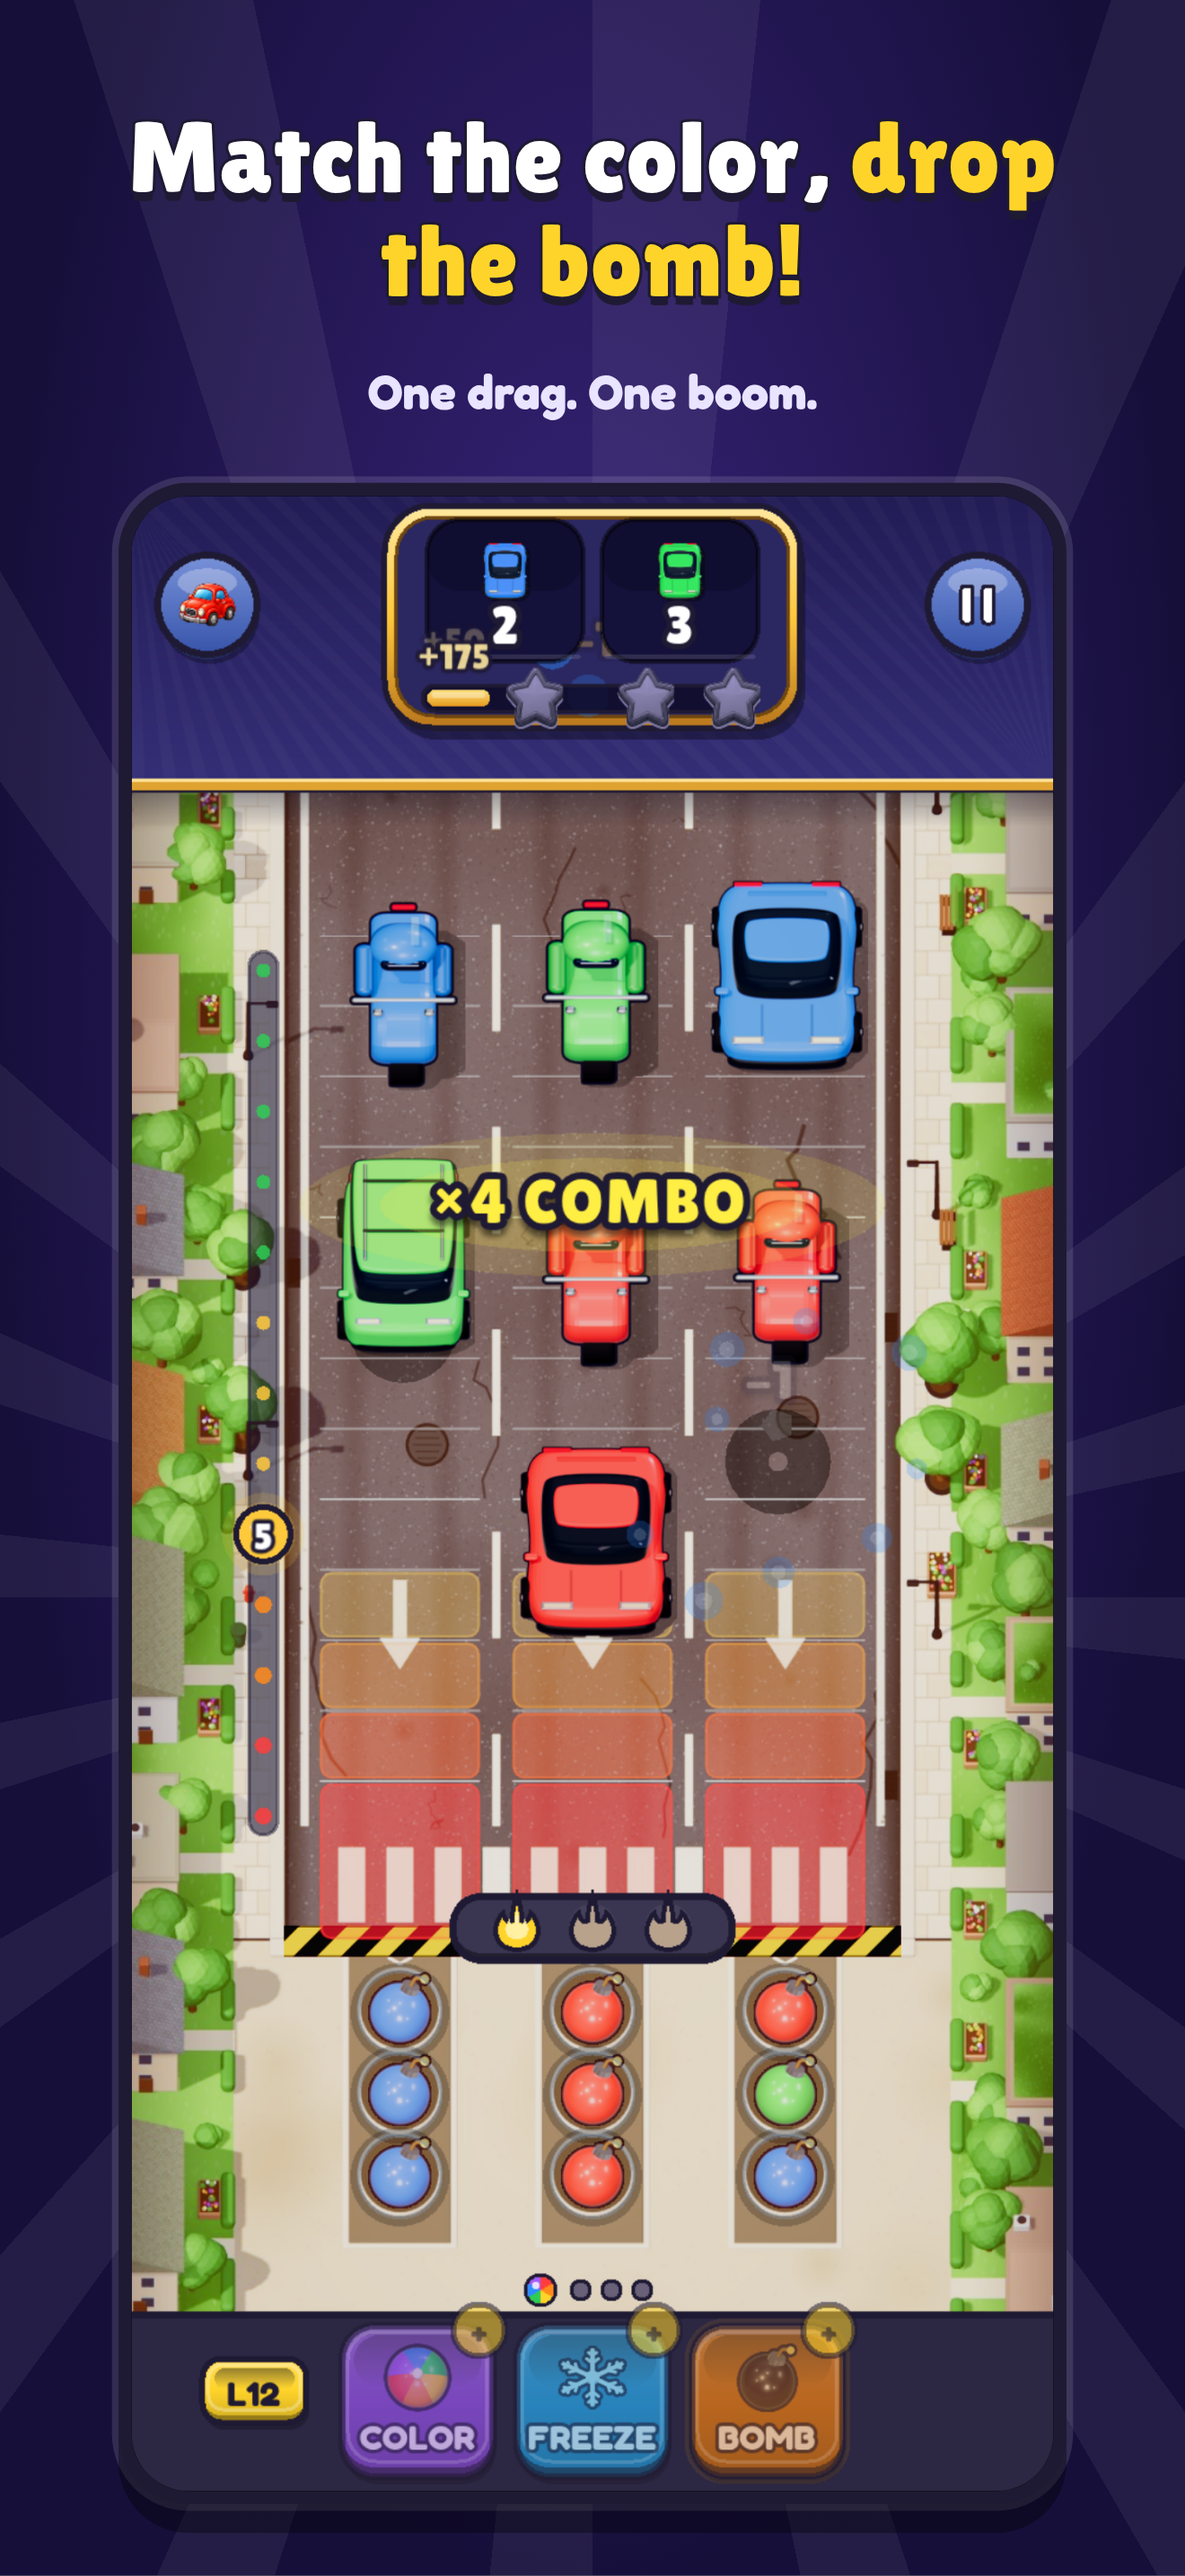
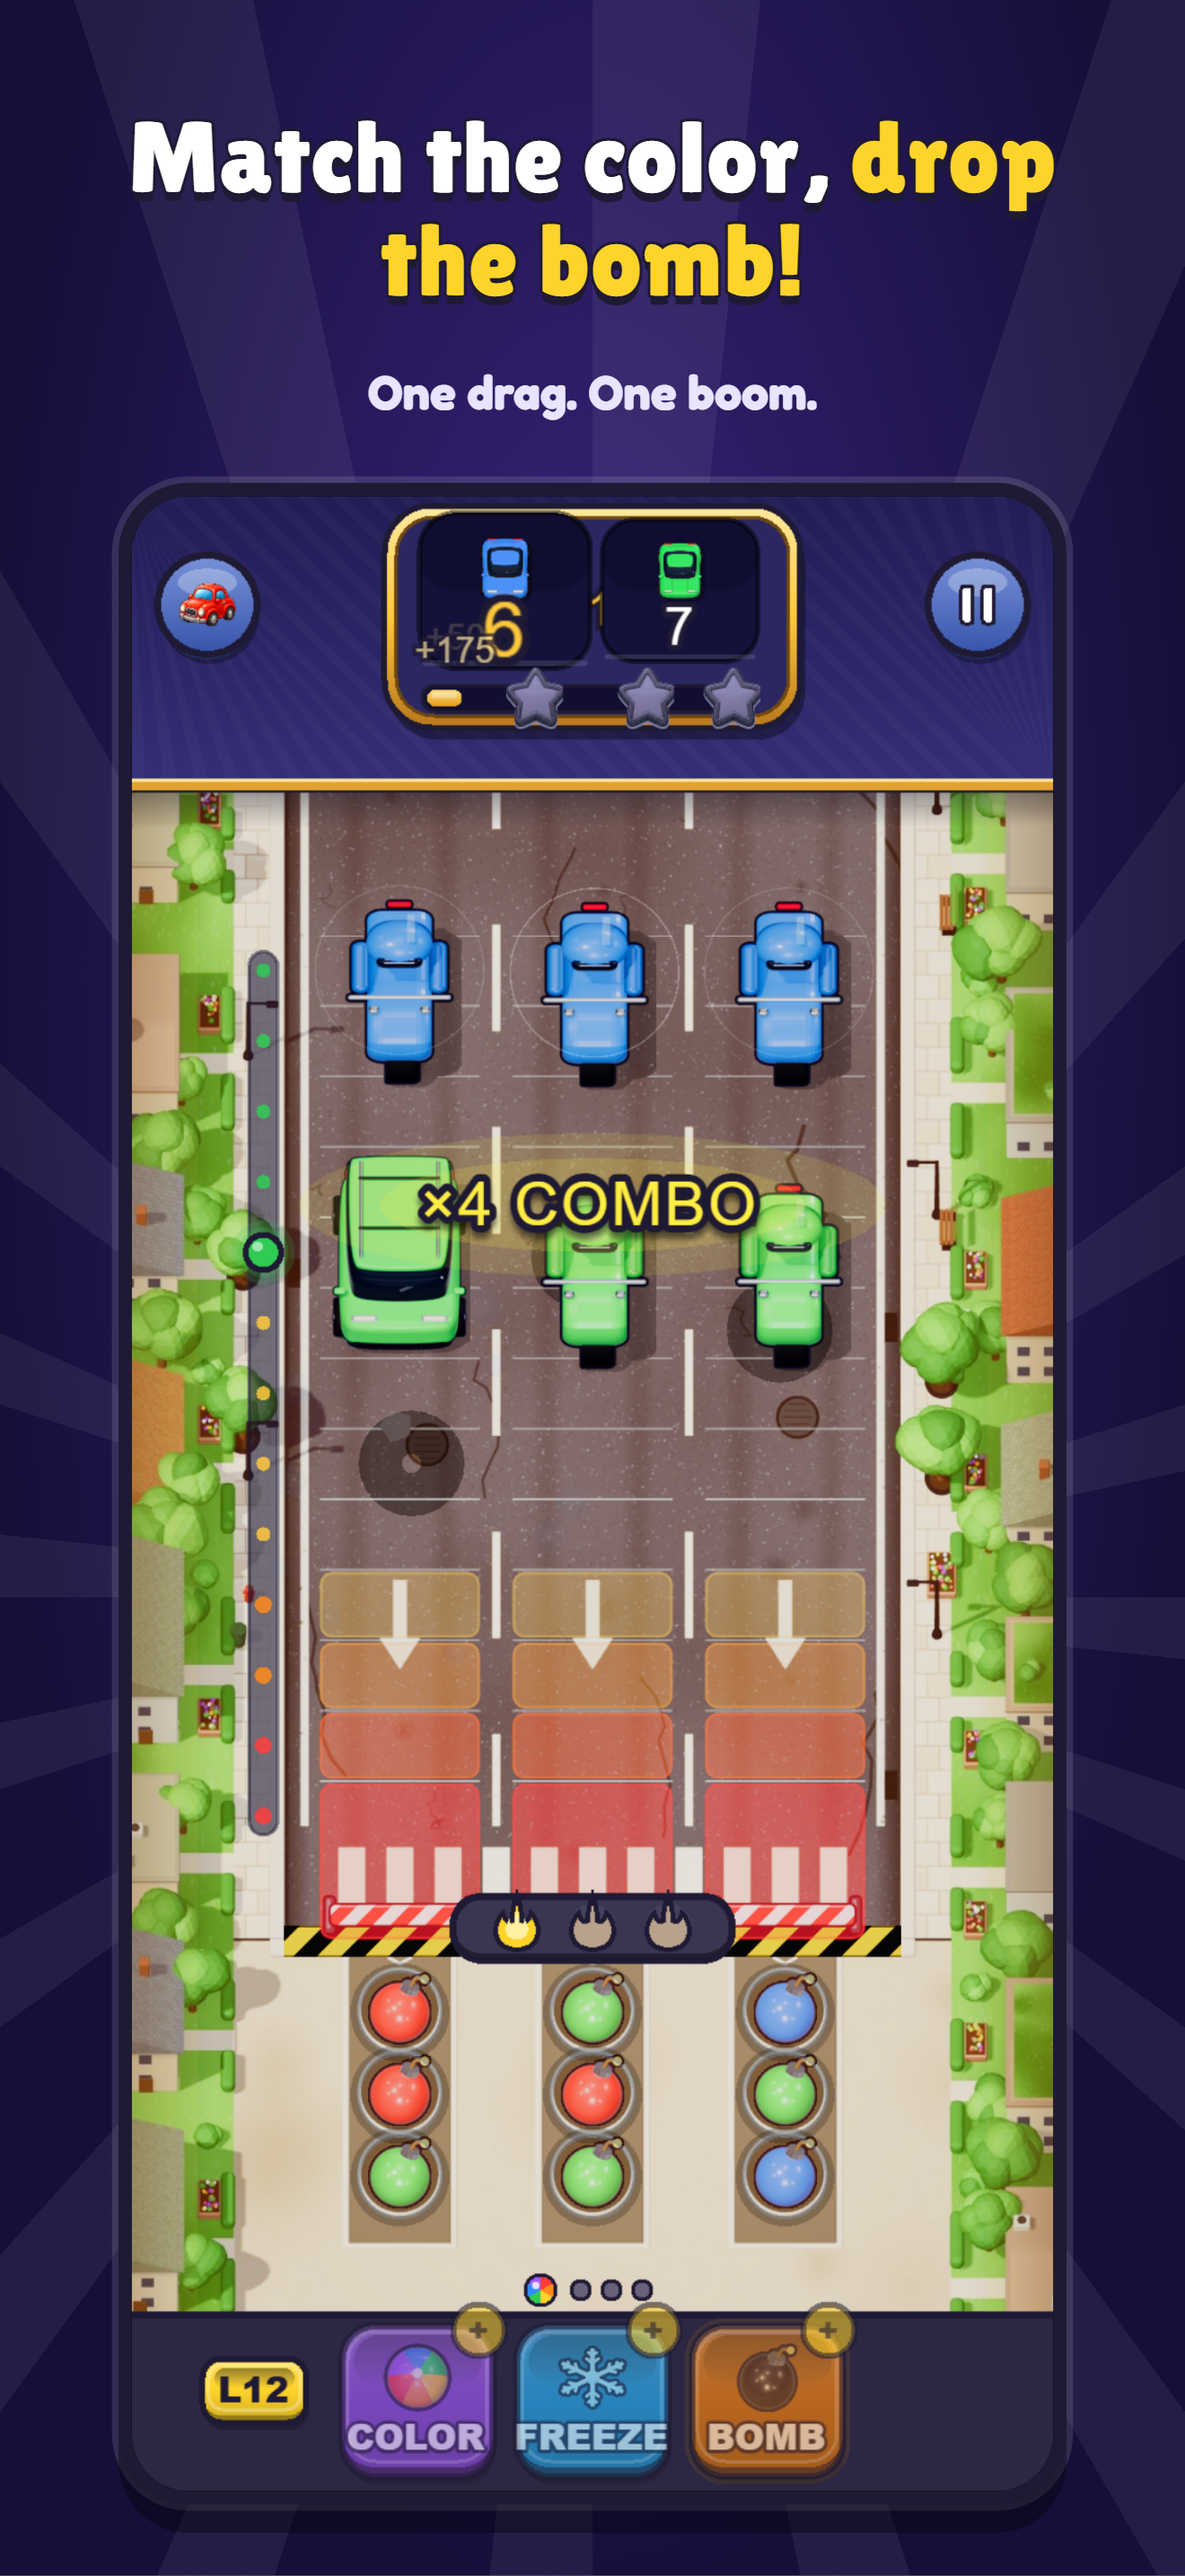
App Store: fresh iPhone screenshots (bridges second), description with bridges, listing status
Screenshots recaptured from the current game (store-capture adds a bridged-pair shot on L12;
store-art puts it second). LISTING.md description updated for bridges, waves and Hot Streak 5.
APPSTORE.md records what the API filled and what is left for the owner.

diff --git a/docs/store/LISTING.md b/docs/store/LISTING.md
@@ -13,21 +13,25 @@ HARD / SUPER HARD levels, win streaks. US spelling throughout (the game uses it)
   - A colorful traffic puzzle: every bomb must match its car. 200 levels!
   - Drag, match, boom! Stop the traffic jam in 200 bright puzzle levels.
 
-## Full description (EN, under 4000)
+## Full description (EN, under 4000) — updated 2026-11-03 for bridges, waves, Hot Streak 5
 
 Cars are rolling toward your city and only YOU can stop them!
 
-Drag a color bomb onto a lane: if it matches the car in front, BOOM. Every shot moves the
-traffic closer, so pick your target wisely. Clear the road before a single car crosses the red line.
+Drag a color bomb onto a lane: if it matches the car in front, BOOM. Every shot moves the traffic closer, so pick your target wisely. Clear the road before a single car crosses the red line.
 
 EASY TO PLAY, HARD TO PUT DOWN
 • One finger, one drag, one boom
 • Big cars take more hits: each hit shrinks them down
 • Turn-based: think as long as you like, no timers
 
+BRIDGES: THE CLEVER MOVE
+• Two cars of the same color side by side? Drag one onto the other and they couple into one vehicle
+• One bomb on the pair takes both
+• Watch out for speeders: they break away from a bridge when they move
+
 200 LEVELS: 7 WORLDS, THEN A SECOND TOUR
 • Toy Town, Steel Yards, Neon Nights, Sun Valley, Frost Pass, Harbor Lights and the Starlight Strip
-• HARD and SUPER HARD levels for when you want a real challenge
+• Waves of traffic, lane barriers and HARD and SUPER HARD levels for a real challenge
 • Repair your city one building at a time as you win
 
 TRAFFIC THAT FIGHTS BACK
@@ -36,12 +40,12 @@ TRAFFIC THAT FIGHTS BACK
 • Motorbike convoys, speeders, armored and plated cars, chameleons, menders, volatile fuel trucks and phantoms
 
 POWER UP
-• Hot Streak: three kills in a row charges a super bomb
+• Hot Streak: five kills in a row supercharge your bombs
 • Color Swap, Freeze and lane-clearing Bomb boosters
 • Win streaks start your next level with free boosters
 • Daily rewards, a daily challenge and trophies to collect
 
-Colorblind shapes and a reduce-motion option included.
+Every new rule is shown as a short moving picture, no reading needed. Colorblind shapes and a reduce-motion option included.
 
 Free to play, with ads. Rewarded videos are always your choice. Plays offline.
 

diff --git a/docs/store/APPSTORE.md b/docs/store/APPSTORE.md
@@ -84,3 +84,13 @@ nadavwolfsonw@gmail.com.
 
 `ITSAppUsesNonExemptEncryption = false` is in Info.plist (HTTPS only), so App Store Connect does
 not ask per build.
+
+## Status 2026-11-03 (filled through the App Store Connect API, `TrafficBomb-owner/ios-signing/tools/fill-appstore.cjs`)
+
+Done: description (the LISTING.md text, with bridges), keywords, promotional text, support + marketing URL,
+subtitle, privacy policy URL, copyright, category Games > Puzzle + Casual, age rating (4+; Advertising yes),
+content rights (no third-party content), review contact + notes, price Free, availability 175 territories,
+8 screenshots 1320x2868 (APP_IPHONE_67; `scripts/store-capture.mjs` + `store-art.mjs ios`; #2 = bridges),
+build 18 attached (export compliance answered by Info.plist).
+Open (owner): AdMob iOS app + Rewarded + Interstitial units -> GitHub variables (then a build with
+ads=live replaces build 18, which serves test ads); App Privacy label on the website. Then the submission.
